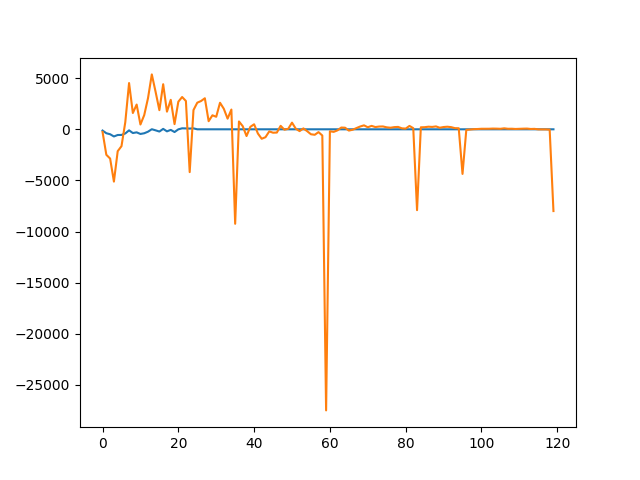
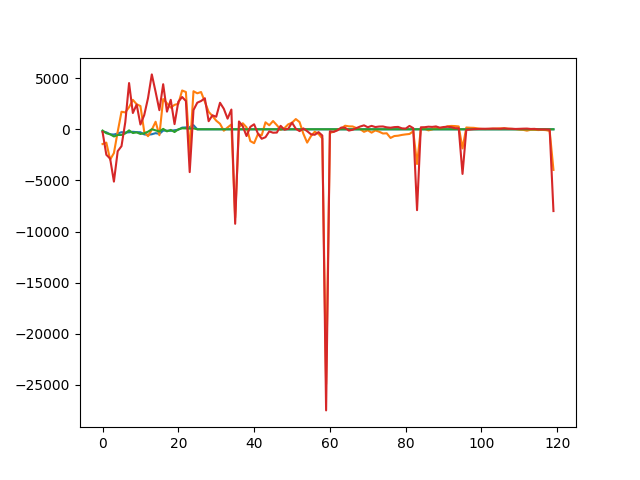
ready to push to main

Changed region(s): [[0.1562, 0.1562, 0.875, 0.8438]]

diff --git a/evaluation.py b/evaluation.py
@@ -67,11 +67,19 @@ def plotMatrix(matrix, nameX ='', nameY = '', saveUnder = '', showPlot = True):
         plt.show()
 
 
-def plotDifferenceFromMarginZCBHedge(desired_margin_cashflows, simulated_cashflows, fileName):
+def plotDifferenceFromMarginZCBHedge(desired_margin_cashflows, simulated_cashflows, fileName, noOutliers = False):
     data = pd.read_excel('data/' + fileName+ '.xlsx')
     optimal_x = data[data.columns[1]]
     differences = Objective_Function_Methods.compute_margin_differences(desired_margin_cashflows, simulated_cashflows, optimal_x)
-
+    
+    counter = 0
+    if (noOutliers):
+        for i in range(len(differences)):
+            for j in range(120):
+                if (differences[i][j] > 15000 or differences[i][j] < -15000 ):
+                    differences[i][j] = 0
+                    counter += 1
+    print(counter)
     # plotList(optimal_x) #Gives a plot of the weights of the hedging porfolio with only zcb
     plotMatrix(differences, 'Months', 'Deviation from derised margin', saveUnder= fileName, showPlot=False) #Plots all the net cashflows when the portfolio is hedged with zcb's
 
@@ -136,11 +144,12 @@ def main():
             if (HullWhiteMethods.swapRate(int(t2-t1), 0, simulated_rates[i][t1])[-1] < swaption.get_strike()):
                 print(HullWhiteMethods.swapRate(int(t2-t1), 0, simulated_rates[i][t1])[-1])
                 totCashflow = []
+                
                 for j in range(120):
                     totCashflow.append(cashflow[j]*swaptionPosition[k])
                 print(sum(totCashflow))
                 # plotY(totCashflow,saveUnder = 'test' + str(i), showPlot = True)
-                plotMatrix([totCashflow, differences[i]],saveUnder = 'test' + str(i), showPlot = True)
+                plotMatrix([totCashflow, differences[i]],saveUnder = 'test' + str(i), showPlot = False)
 
     # plotList(optimal_x) #Gives a plot of the weights of the hedging porfolio with only zcb
     # plotMatrix(differences, 'Months', 'Deviation from derised margin', saveUnder= "test", showPlot=False) #Plots all the net cashflows when the portfolio is hedged with zcb's
@@ -151,4 +160,4 @@ def main():
     # plotAllDifferencesFromMarginZCBHedge()
     # plotAllZCBHedgePortfolios()
     # plotAllSwaptionHedgePortfolios()
-main()
+# main()
